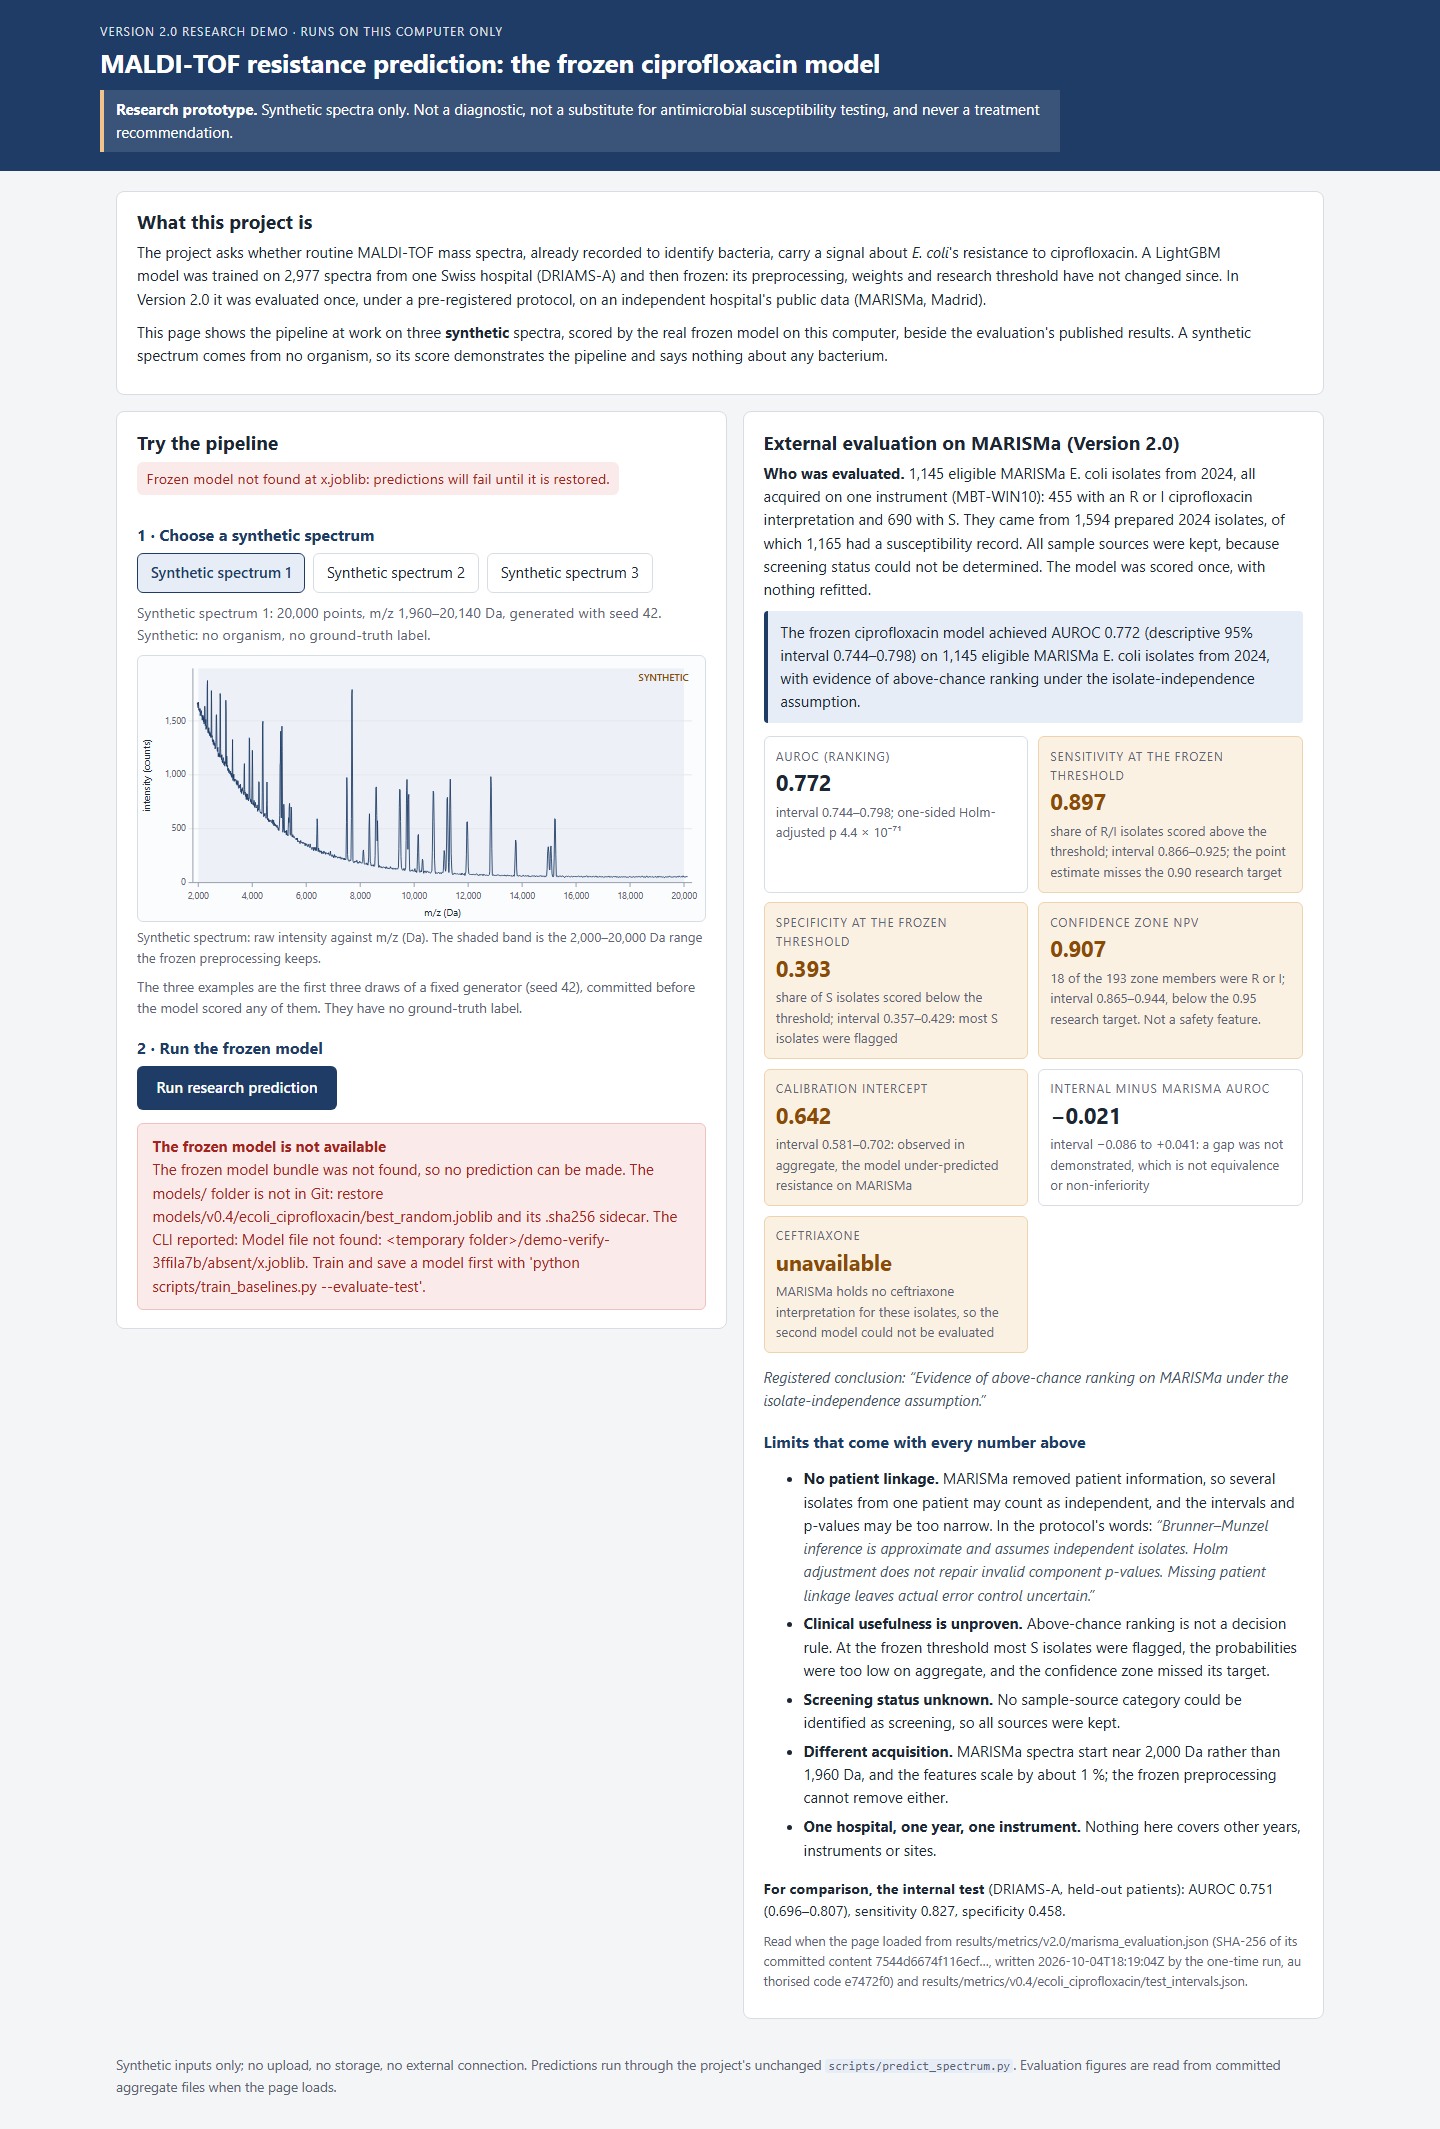
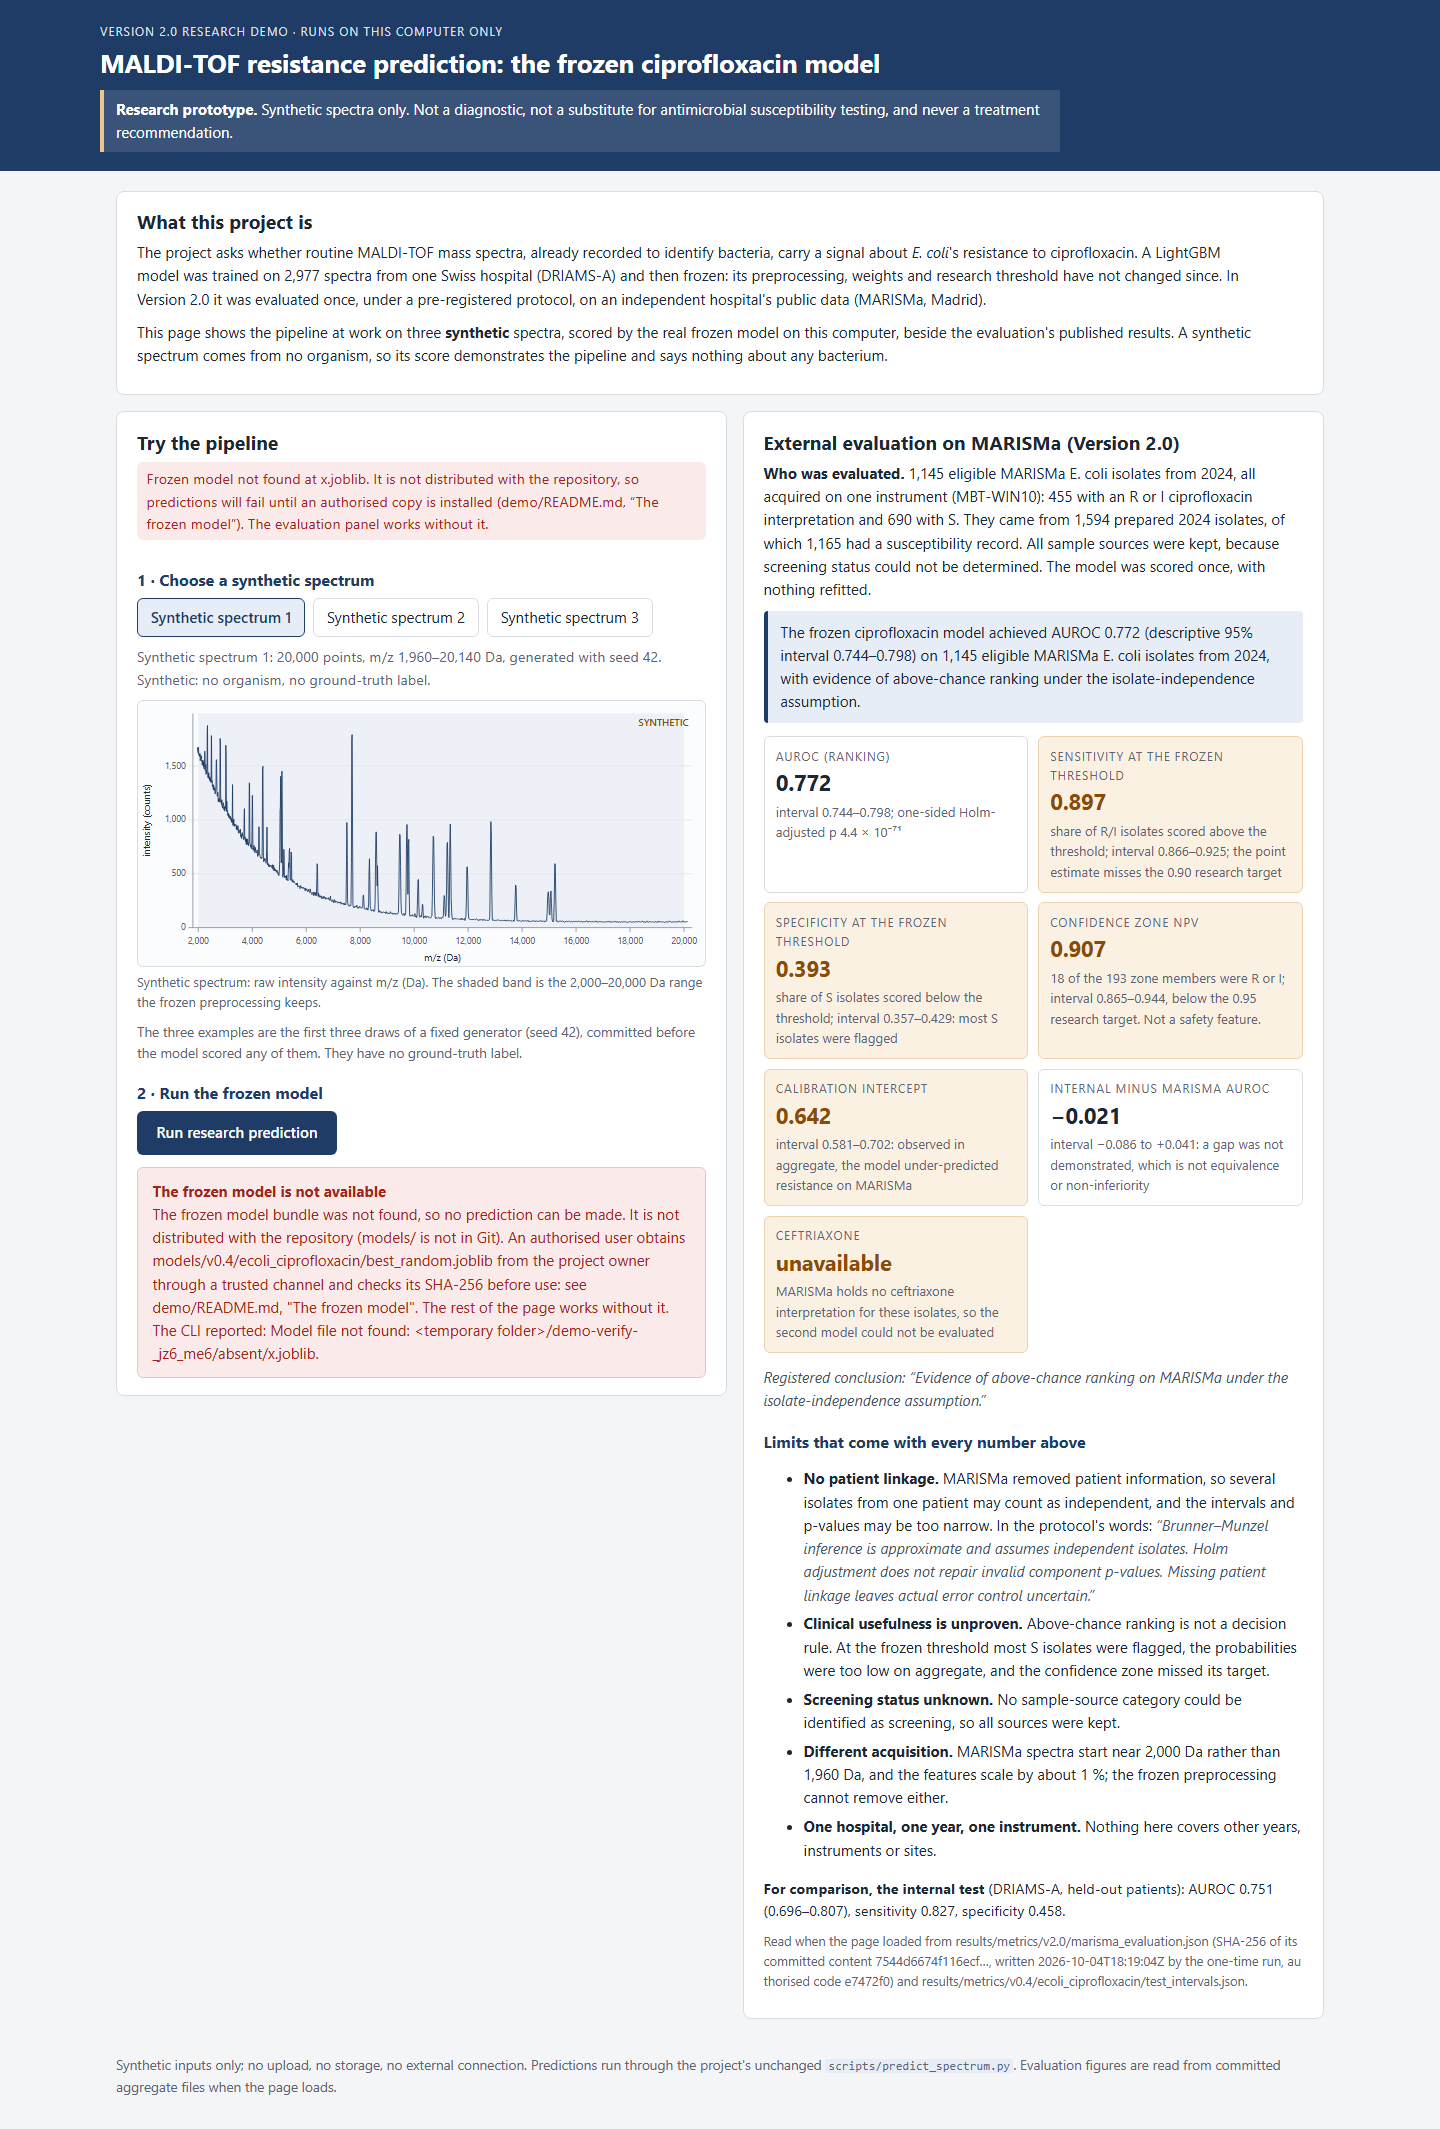
Demo: end-to-end verification on 7fba910 (36 of 36 checks, fresh clone included) and screenshots
Regenerated by scripts/demo_verify.py on the commit with the final runtime code: the same three synthetic scores (0.1918, 0.3941, 0.2333), equal to the frozen model's own and the unchanged API's; a fresh clone without the bundle serves the page and evidence and explains how to obtain and verify it. The report now states its scope: observations from one Windows 11 run, not guarantees; CI runs the unit tests only.

Changed region(s): [[0.0938, 0.217, 0.5, 0.651]]

diff --git a/docs/demo/verification.md b/docs/demo/verification.md
@@ -1,14 +1,16 @@
 # Research demo: end-to-end verification
 
-Run 2026-10-05T05:50:55Z by `scripts/demo_verify.py` on commit `0f0b0bb`, with Python 3.12.10 and Edg/154.0.4258.53. **34 of 34 checks passed.**
+Run 2026-10-05T10:25:36Z by `scripts/demo_verify.py` on commit `7fba910`, on Windows-11-10.0.26200-SP0, with Python 3.12.10 and Edg/154.0.4258.53. **36 of 36 checks passed.**
+
+**Scope.** These are observations from this one run in this environment: one Windows machine, the pinned dependencies of `requirements-lock.txt`, the frozen bundle present, and the browser and commit named above. They are not guarantees for other machines, browsers, versions or configurations. CI does not run this check. CI runs the unit tests on Ubuntu and Windows with Python 3.11 and 3.12, without the model bundle (those tests skip) and without a browser.
 
 The scores below are pipeline demonstrations on synthetic spectra. They are not research results, and no experiment log was touched.
 
 | Synthetic example | Demo score (CLI, 4 decimals) | Frozen model, unrounded | Status | CLI run |
 |---|---|---|---|---|
-| synthetic-1 | 0.1918 | 0.191769 | above the research threshold | 2.4 s |
-| synthetic-2 | 0.3941 | 0.394083 | above the research threshold | 2.4 s |
-| synthetic-3 | 0.2333 | 0.233276 | above the research threshold | 2.4 s |
+| synthetic-1 | 0.1918 | 0.191769 | above the research threshold | 2.3 s |
+| synthetic-2 | 0.3941 | 0.394083 | above the research threshold | 2.2 s |
+| synthetic-3 | 0.2333 | 0.233276 | above the research threshold | 2.1 s |
 
 | Check | Result | Detail |
 |---|---|---|
@@ -30,15 +32,17 @@ The scores below are pipeline demonstrations on synthetic spectra. They are not 
 | the page keeps nothing in browser storage | pass | [0, 0, 0, 0] |
 | a missing bundle is reported as model_unavailable | pass | HTTP 503 |
 | the page shows the missing-model error and no score | pass |  |
+| a fresh clone has no bundle, and serves the page and the evidence anyway | pass |  |
+| a fresh clone's prediction explains how to obtain and verify the bundle | pass | HTTP 503 |
 | a damaged bundle is refused by its checksum | pass | model_invalid |
 | a spectrum the reader refuses is an inference error | pass | inference_failed |
 | a run that takes too long is stopped | pass | timeout |
-| every socket of the server, the CLI runs and the API is a loopback socket | pass | 9 socket events in 13 Python processes; outside loopback: [] |
+| every socket of the server, the CLI runs and the API is a loopback socket | pass | 12 socket events in 15 Python processes; outside loopback: [] |
 | no Python process looked up a non-loopback host name | pass | looked up [] |
 | every request the page made went to 127.0.0.1 | pass | ['127.0.0.1'] |
-| every TCP connection of the browser went to 127.0.0.1 | pass | ['127.0.0.1:53485', '127.0.0.1:61256'] |
+| every TCP connection of the browser went to 127.0.0.1 | pass | ['127.0.0.1:50846', '127.0.0.1:59193'] |
 | the browser sent no UDP data | pass | UDP connects without data (Chromium's IPv6 reachability probe): ['127.0.0.1:443', '[2603:1020:201:10::10f]:443'] |
-| every file the demo's processes opened for writing was a temporary file | pass | 14 temporary files; other: [] |
+| every file the demo's processes opened for writing was a temporary file | pass | 31 temporary files; other: [] |
 | no temporary spectrum survived its request | pass | left: [] |
 | no demo temporary folder is left behind | pass | [] |
 | no browser profile stored a prediction (Cache-Control: no-store) | pass | [] |
